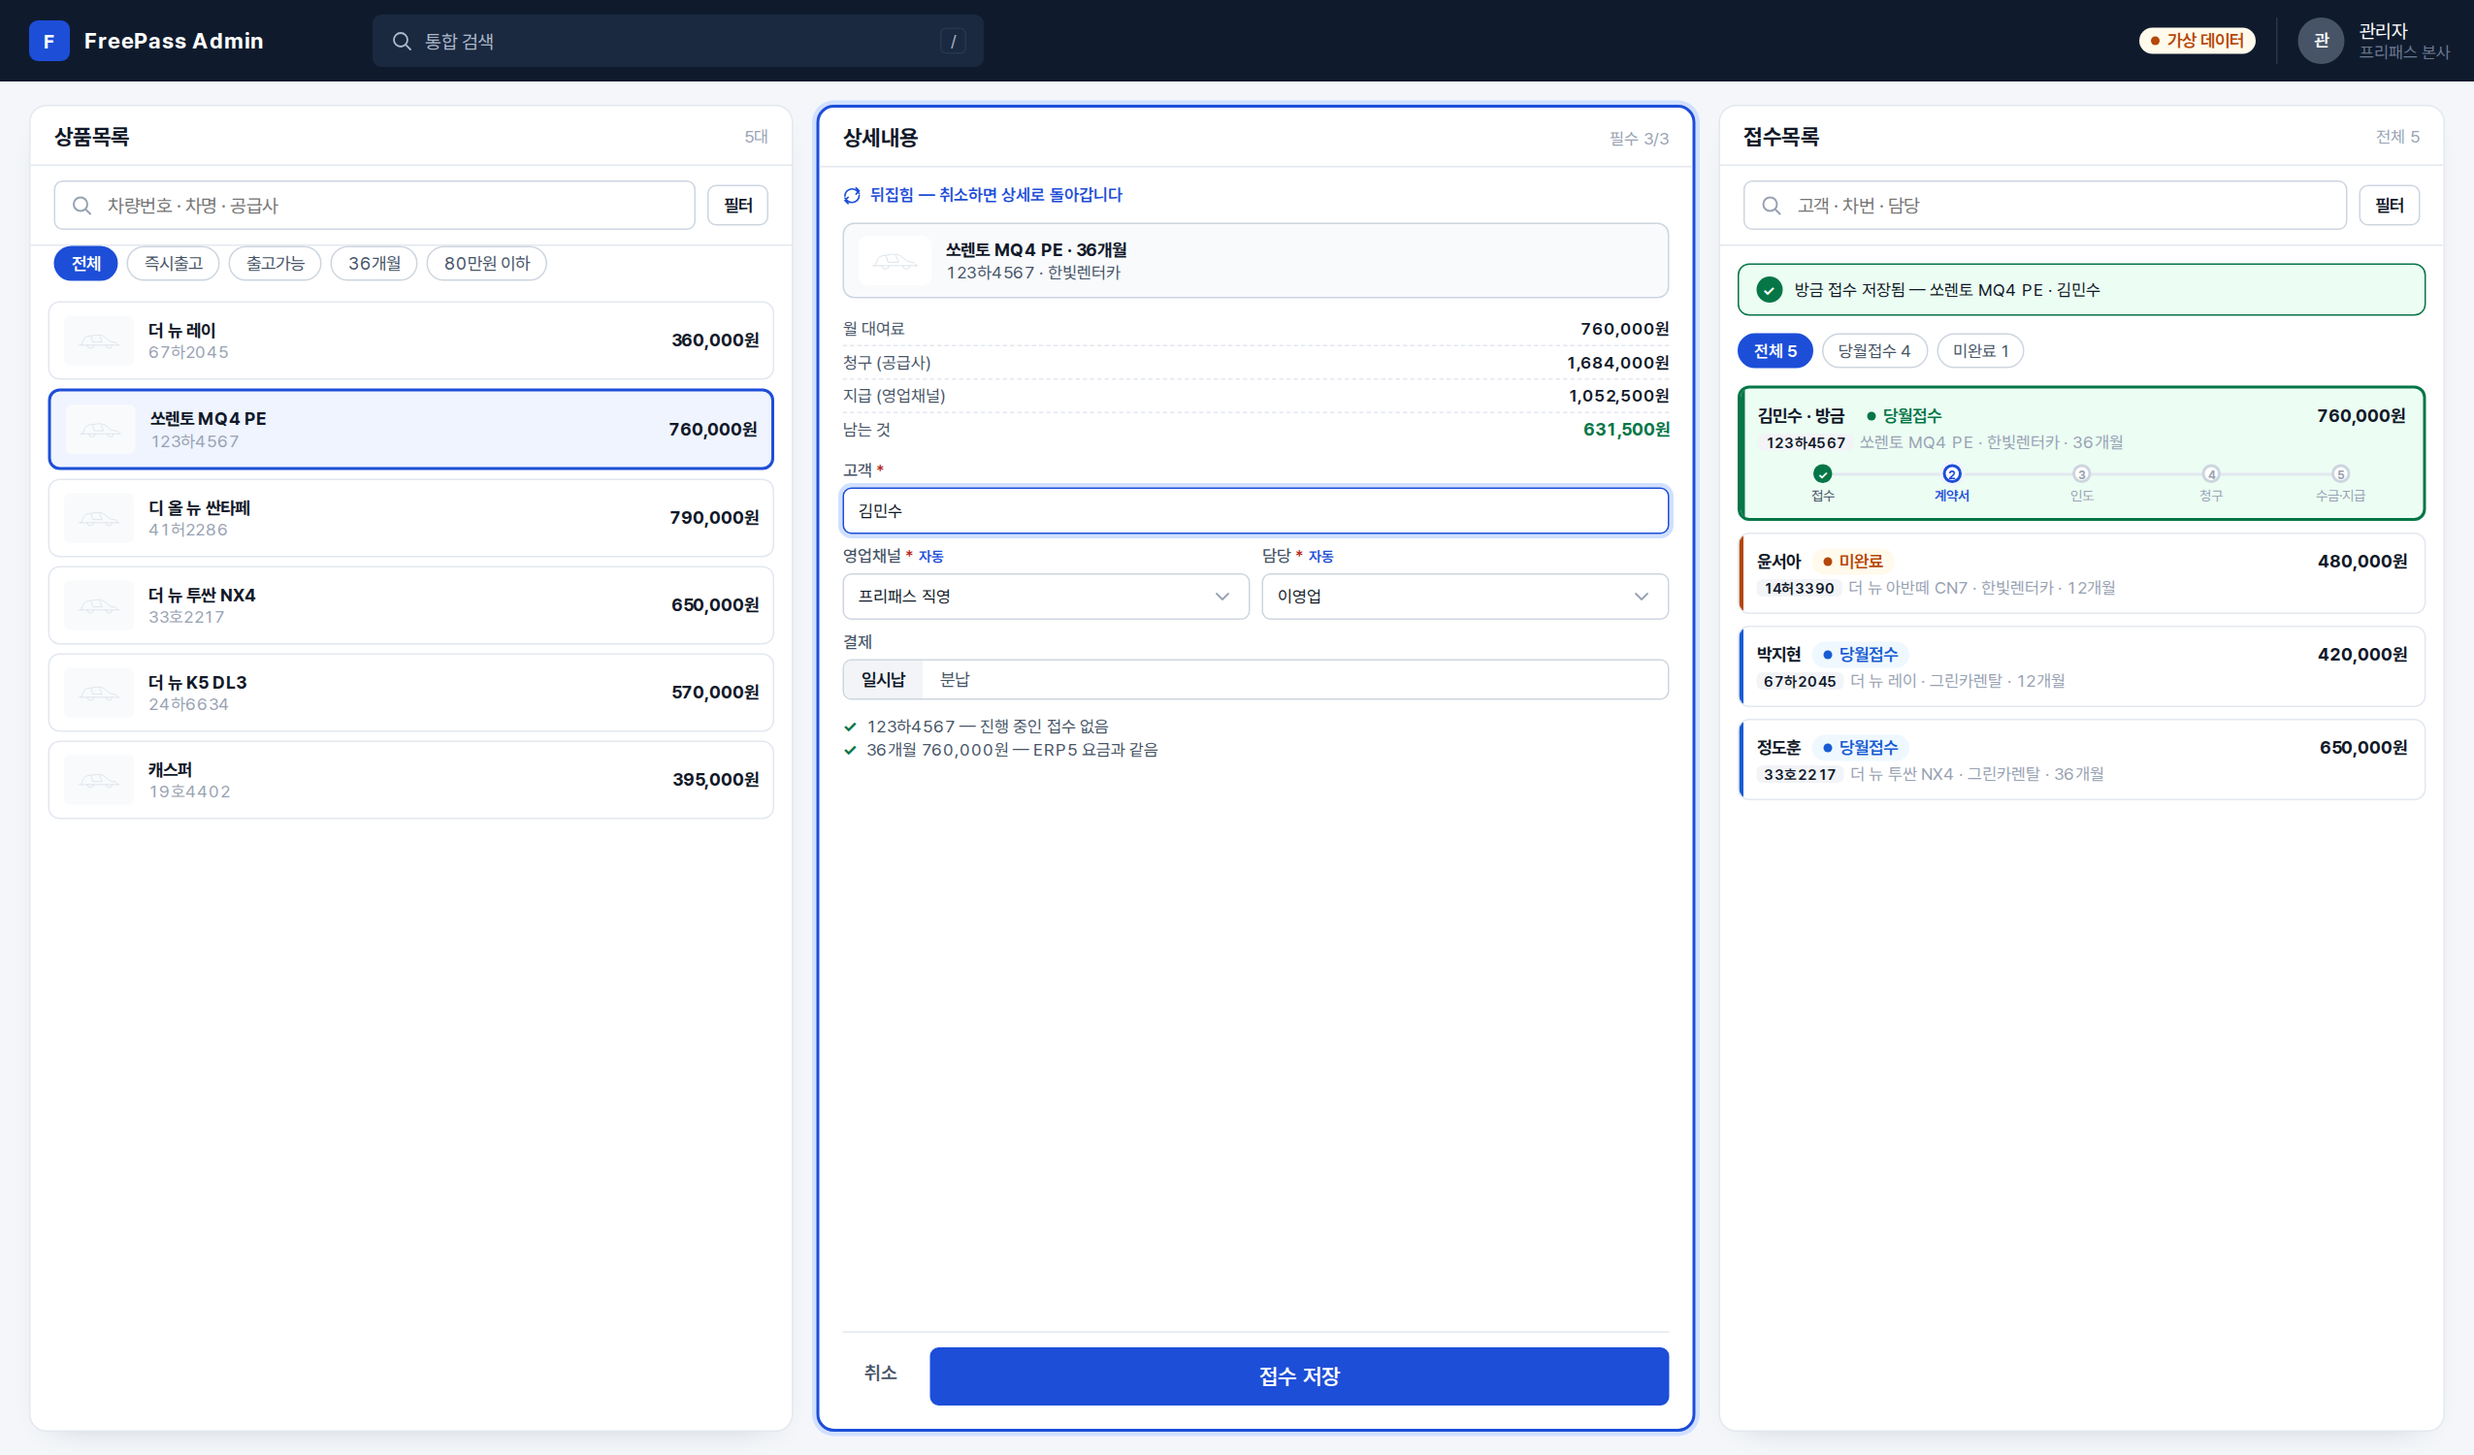
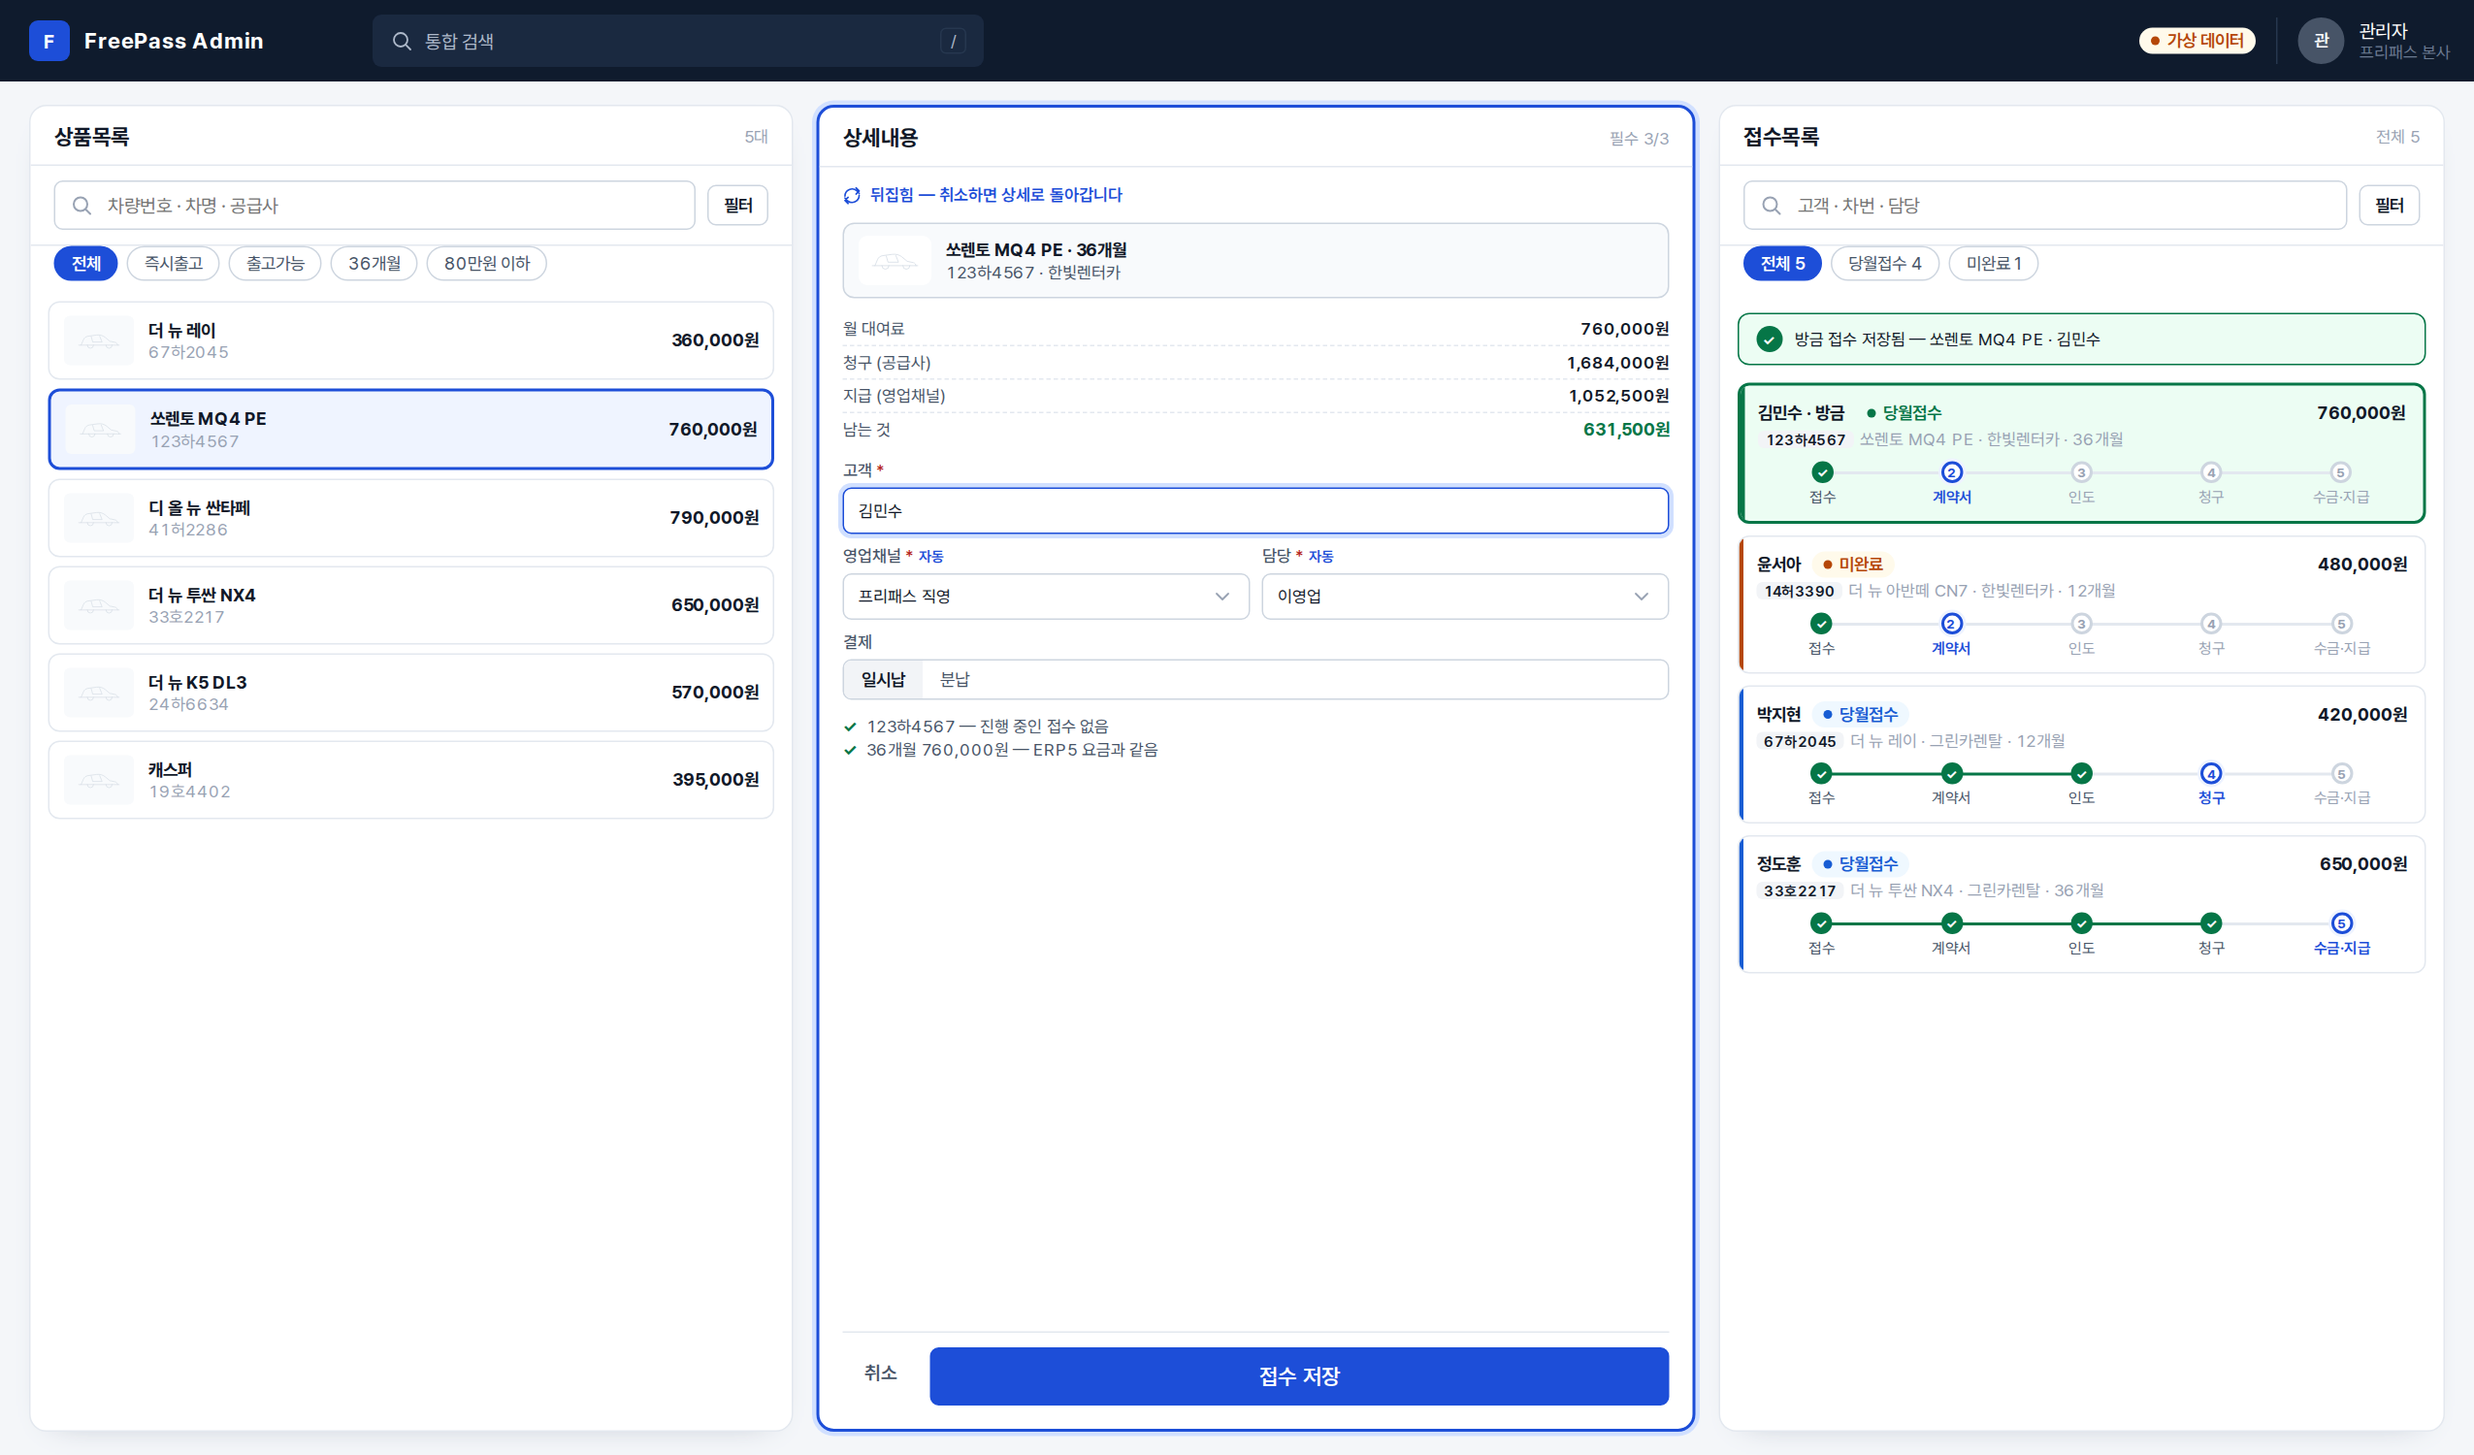
[Claude] 시안 I — 접수목록 카드를 항상 세 줄(누구·상태·금액 / 차 / 진행 단계)로 고정
Claude-Session: https://claude.ai/code/session_01VHqvSXhUy82o1cFFrYMP3F

diff --git a/design/erp-standard/proposals/three-panel-v2/flip.html b/design/erp-standard/proposals/three-panel-v2/flip.html
@@ -71,8 +71,10 @@
         <label class="f3v-search"><svg viewBox="0 0 24 24"><circle cx="11" cy="11" r="7"/><path d="m21 21-4.3-4.3"/></svg><input placeholder="고객 · 차번 · 담당" aria-label="검색"></label>
         <button class="erp-btn erp-btn--sm" type="button">필터</button>
       </div>
+      <div class="f3v-quick" role="group" aria-label="퀵 필터">
+        <button type="button" aria-pressed="true">전체 5</button><button type="button" aria-pressed="false">당월접수 4</button><button type="button" aria-pressed="false">미완료 1</button>
+      </div>
       <div class="f3v-toast"><i>✓</i><span>방금 접수 저장됨 — 쏘렌토 MQ4 PE · 김민수</span></div>
-      <div class="f3v-lseg" role="group" aria-label="접수 칸"><button type="button" aria-pressed="true">전체 5</button><button type="button" aria-pressed="false">당월접수 4</button><button type="button" aria-pressed="false">미완료 1</button></div>
       <div class="f3v-llist" role="list">
           <div class="f3v-lrow f3v-lrow--just" data-tone="ok">
             <div class="f3v-lrow-top"><b>김민수 · 방금</b><span class="erp-badge erp-badge--ok">당월접수</span><strong>760,000원</strong></div>
@@ -82,17 +84,17 @@
           <div class="f3v-lrow" data-tone="warn">
             <div class="f3v-lrow-top"><b>윤서아</b><span class="erp-badge erp-badge--warn">미완료</span><strong>480,000원</strong></div>
             <div class="f3v-lrow-car"><b>14허3390</b>더 뉴 아반떼 CN7 · 한빛렌터카 · 12개월</div>
-            
+            <ol class="f3v-lsteps"><li data-state="done"><i>✓</i>접수</li><li aria-current="step"><i>2</i>계약서</li><li><i>3</i>인도</li><li><i>4</i>청구</li><li><i>5</i>수금·지급</li></ol>
           </div>
           <div class="f3v-lrow" data-tone="info">
             <div class="f3v-lrow-top"><b>박지현</b><span class="erp-badge erp-badge--info">당월접수</span><strong>420,000원</strong></div>
             <div class="f3v-lrow-car"><b>67하2045</b>더 뉴 레이 · 그린카렌탈 · 12개월</div>
-            
+            <ol class="f3v-lsteps"><li data-state="done"><i>✓</i>접수</li><li data-state="done"><i>✓</i>계약서</li><li data-state="done"><i>✓</i>인도</li><li aria-current="step"><i>4</i>청구</li><li><i>5</i>수금·지급</li></ol>
           </div>
           <div class="f3v-lrow" data-tone="info">
             <div class="f3v-lrow-top"><b>정도훈</b><span class="erp-badge erp-badge--info">당월접수</span><strong>650,000원</strong></div>
             <div class="f3v-lrow-car"><b>33호2217</b>더 뉴 투싼 NX4 · 그린카렌탈 · 36개월</div>
-            
+            <ol class="f3v-lsteps"><li data-state="done"><i>✓</i>접수</li><li data-state="done"><i>✓</i>계약서</li><li data-state="done"><i>✓</i>인도</li><li data-state="done"><i>✓</i>청구</li><li aria-current="step"><i>5</i>수금·지급</li></ol>
           </div>
       </div>
     </section>

diff --git a/design/erp-standard/proposals/three-panel-v2/browse.html b/design/erp-standard/proposals/three-panel-v2/browse.html
@@ -70,24 +70,26 @@
         <label class="f3v-search"><svg viewBox="0 0 24 24"><circle cx="11" cy="11" r="7"/><path d="m21 21-4.3-4.3"/></svg><input placeholder="고객 · 차번 · 담당" aria-label="검색"></label>
         <button class="erp-btn erp-btn--sm" type="button">필터</button>
       </div>
+      <div class="f3v-quick" role="group" aria-label="퀵 필터">
+        <button type="button" aria-pressed="true">전체 4</button><button type="button" aria-pressed="false">당월접수 3</button><button type="button" aria-pressed="false">미완료 1</button>
+      </div>
       
-      <div class="f3v-lseg" role="group" aria-label="접수 칸"><button type="button" aria-pressed="true">전체 4</button><button type="button" aria-pressed="false">당월접수 3</button><button type="button" aria-pressed="false">미완료 1</button></div>
       <div class="f3v-llist" role="list">
 
           <div class="f3v-lrow" data-tone="warn">
             <div class="f3v-lrow-top"><b>윤서아</b><span class="erp-badge erp-badge--warn">미완료</span><strong>480,000원</strong></div>
             <div class="f3v-lrow-car"><b>14허3390</b>더 뉴 아반떼 CN7 · 한빛렌터카 · 12개월</div>
-            
+            <ol class="f3v-lsteps"><li data-state="done"><i>✓</i>접수</li><li aria-current="step"><i>2</i>계약서</li><li><i>3</i>인도</li><li><i>4</i>청구</li><li><i>5</i>수금·지급</li></ol>
           </div>
           <div class="f3v-lrow" data-tone="info">
             <div class="f3v-lrow-top"><b>박지현</b><span class="erp-badge erp-badge--info">당월접수</span><strong>420,000원</strong></div>
             <div class="f3v-lrow-car"><b>67하2045</b>더 뉴 레이 · 그린카렌탈 · 12개월</div>
-            
+            <ol class="f3v-lsteps"><li data-state="done"><i>✓</i>접수</li><li data-state="done"><i>✓</i>계약서</li><li data-state="done"><i>✓</i>인도</li><li aria-current="step"><i>4</i>청구</li><li><i>5</i>수금·지급</li></ol>
           </div>
           <div class="f3v-lrow" data-tone="info">
             <div class="f3v-lrow-top"><b>정도훈</b><span class="erp-badge erp-badge--info">당월접수</span><strong>650,000원</strong></div>
             <div class="f3v-lrow-car"><b>33호2217</b>더 뉴 투싼 NX4 · 그린카렌탈 · 36개월</div>
-            
+            <ol class="f3v-lsteps"><li data-state="done"><i>✓</i>접수</li><li data-state="done"><i>✓</i>계약서</li><li data-state="done"><i>✓</i>인도</li><li data-state="done"><i>✓</i>청구</li><li aria-current="step"><i>5</i>수금·지급</li></ol>
           </div>
       </div>
     </section>

diff --git a/design/erp-standard/proposals/three-panel-v2/mobile.html b/design/erp-standard/proposals/three-panel-v2/mobile.html
@@ -82,8 +82,8 @@
       <div class="f3v-quick"><button type="button" aria-pressed="true">전체 4</button><button type="button" aria-pressed="false">당월접수 3</button></div>
       <div class="f3v-list">
         <div class="f3v-lrow f3v-lrow--just" data-tone="ok"><div class="f3v-lrow-top"><b>김민수 · 방금</b><span class="erp-badge erp-badge--ok">당월접수</span><strong>760,000원/월</strong></div><div class="f3v-lrow-car"><b>123하4567</b>쏘렌토 MQ4 PE</div><ol class="f3v-lsteps"><li data-state="done"><i>✓</i>접수</li><li aria-current="step"><i>2</i>계약서</li><li><i>3</i>인도</li><li><i>4</i>청구</li><li><i>5</i>수금·지급</li></ol></div>
-        <div class="f3v-prow"><div class="f3v-prow-img"><svg viewBox="0 0 120 60" aria-hidden="true"><path d="M8 42h104M14 42l6-14c2-5 6-8 12-9l22-3c8-1 16 1 22 6l12 10 14 3c4 1 6 4 6 7M30 42a8 8 0 1 0 16 0M78 42a8 8 0 1 0 16 0M40 20l4 14h24l-6-15"/></svg></div><div><b>윤서아</b><small>14허3390 · 더 뉴 아반떼 CN7</small></div><strong>480,000원</strong></div>
-        <div class="f3v-prow"><div class="f3v-prow-img"><svg viewBox="0 0 120 60" aria-hidden="true"><path d="M8 42h104M14 42l6-14c2-5 6-8 12-9l22-3c8-1 16 1 22 6l12 10 14 3c4 1 6 4 6 7M30 42a8 8 0 1 0 16 0M78 42a8 8 0 1 0 16 0M40 20l4 14h24l-6-15"/></svg></div><div><b>박지현</b><small>67하2045 · 더 뉴 레이</small></div><strong>420,000원</strong></div>
+        <div class="f3v-lrow" data-tone="warn"><div class="f3v-lrow-top"><b>윤서아</b><span class="erp-badge erp-badge--warn">미완료</span><strong>480,000원/월</strong></div><div class="f3v-lrow-car"><b>14허3390</b>더 뉴 아반떼 CN7</div><ol class="f3v-lsteps"><li data-state="done"><i>✓</i>접수</li><li aria-current="step"><i>2</i>계약서</li><li><i>3</i>인도</li><li><i>4</i>청구</li><li><i>5</i>수금·지급</li></ol></div>
+        <div class="f3v-lrow" data-tone="info"><div class="f3v-lrow-top"><b>박지현</b><span class="erp-badge erp-badge--info">당월접수</span><strong>420,000원/월</strong></div><div class="f3v-lrow-car"><b>67하2045</b>더 뉴 레이</div><ol class="f3v-lsteps"><li data-state="done"><i>✓</i>접수</li><li data-state="done"><i>✓</i>계약서</li><li data-state="done"><i>✓</i>인도</li><li aria-current="step"><i>4</i>청구</li><li><i>5</i>수금·지급</li></ol></div>
       </div>
     </div>
   </div>

diff --git a/design/erp-standard/proposals/three-panel-v2/three-panel-v2.css b/design/erp-standard/proposals/three-panel-v2/three-panel-v2.css
@@ -91,10 +91,10 @@
 .f3v-lrow-car { margin-top: 2px; color: var(--erp-color-text-3); font-size: var(--erp-fs-caption); }
 .f3v-lrow-car b { margin-right: 4px; padding: 0 5px; border-radius: var(--erp-r-sm); background: var(--erp-color-neutral-bg); color: var(--erp-color-text); font-size: 10px; font-weight: var(--erp-fw-semibold); }
 .f3v-lsteps { display: flex; margin: 8px 0 0; padding: 0; list-style: none; }
-.f3v-lsteps li { position: relative; flex: 1; display: flex; flex-direction: column; align-items: center; gap: 3px; color: var(--erp-color-text-3); font-size: 9.5px; text-align: center; }
-.f3v-lsteps li::before { content: ""; position: absolute; top: 6px; right: 50%; width: 100%; height: 2px; background: var(--erp-color-line); }
+.f3v-lsteps li { position: relative; flex: 1; display: flex; flex-direction: column; align-items: center; gap: 3px; color: var(--erp-color-text-3); font-size: 10.5px; text-align: center; }
+.f3v-lsteps li::before { content: ""; position: absolute; top: 7px; right: 50%; width: 100%; height: 2px; background: var(--erp-color-line); }
 .f3v-lsteps li:first-child::before { display: none; }
-.f3v-lsteps i { position: relative; z-index: 1; width: 13px; height: 13px; display: grid; place-items: center; border: 2px solid var(--erp-color-line-strong); border-radius: var(--erp-r-pill); background: var(--erp-color-surface); font-style: normal; font-size: 8px; font-weight: var(--erp-fw-bold); }
+.f3v-lsteps i { position: relative; z-index: 1; width: 15px; height: 15px; display: grid; place-items: center; border: 2px solid var(--erp-color-line-strong); border-radius: var(--erp-r-pill); background: var(--erp-color-surface); font-style: normal; font-size: 9px; font-weight: var(--erp-fw-bold); }
 .f3v-lsteps li[data-state="done"] { color: var(--erp-color-text-2); }
 .f3v-lsteps li[data-state="done"]::before { background: var(--erp-color-ok); }
 .f3v-lsteps li[data-state="done"] i { border-color: var(--erp-color-ok); background: var(--erp-color-ok); color: var(--erp-color-on-primary); }

diff --git a/design/erp-standard/proposals/three-panel-v2/README.md b/design/erp-standard/proposals/three-panel-v2/README.md
@@ -33,10 +33,20 @@
 
 | 목록 | 줄 카드가 보여주는 것 |
 |---|---|
-| 상품목록 | 이 차가 무슨 차인지 — 차명 · 차번 · 트림 · 공급사 · 월 대여료 |
-| 접수목록 | 이 접수가 지금 어떤 상태인지 — 고객 · 차번 · 금액 + **진행 단계가 카드 안에 작게 펼쳐짐**(접수 → 계약서 → 인도 → 청구 → 수금·지급) |
+| 상품목록 | 이 차가 무슨 차인지 — 두 줄(이름·가격 / 차번·공급사) |
+| 접수목록 | 이 접수가 지금 어떤 상태인지 — **항상 세 줄**(대표 2026-09-24 「접수 관리하는 페이지니까 단계가 명확해야 … 목록 카드 성격별로 정확하게」) |
 
-나중에 실적목록 · 정산목록도 같은 머리(검색 · 필터 · 퀵 필터)에 그 대상에 맞는 줄 카드 내용만 채우면 된다.
+목록 카드는 목록마다 그 성격에 맞는 줄 수로 고정한다 — 상품목록은 «무슨 차인지»만 필요해 두 줄, 접수목록은 이 페이지의 핵심이 «지금 어느 단계인가»라서 세 줄이다.
+
+**접수목록 줄 카드(세 줄) 규격**
+
+| 줄 | 내용 |
+|---|---|
+| ① | 고객 이름 + 상태 뱃지(당월접수 · 미완료 · …) + 금액 |
+| ② | 차량번호 + 차명 · 공급사 · 기간 |
+| ③ | **진행 단계**(접수 → 계약서 → 인도 → 청구 → 수금·지급) — 모든 카드에 항상 있다. «방금 접수»만 다른 게 아니라 목록의 모든 줄이 지금 몇 단계인지 한눈에 보인다 |
+
+나중에 실적목록 · 정산목록도 같은 머리(검색 · 필터 · 퀵 필터)를 쓰되, 그 목록의 핵심(실적 = 정산 완료 여부, 정산 = 청구·지급 단계)에 맞춰 줄 수와 세 번째 줄의 내용을 정한다.
 
 ## 상세내용 패널 — 두 면
 
